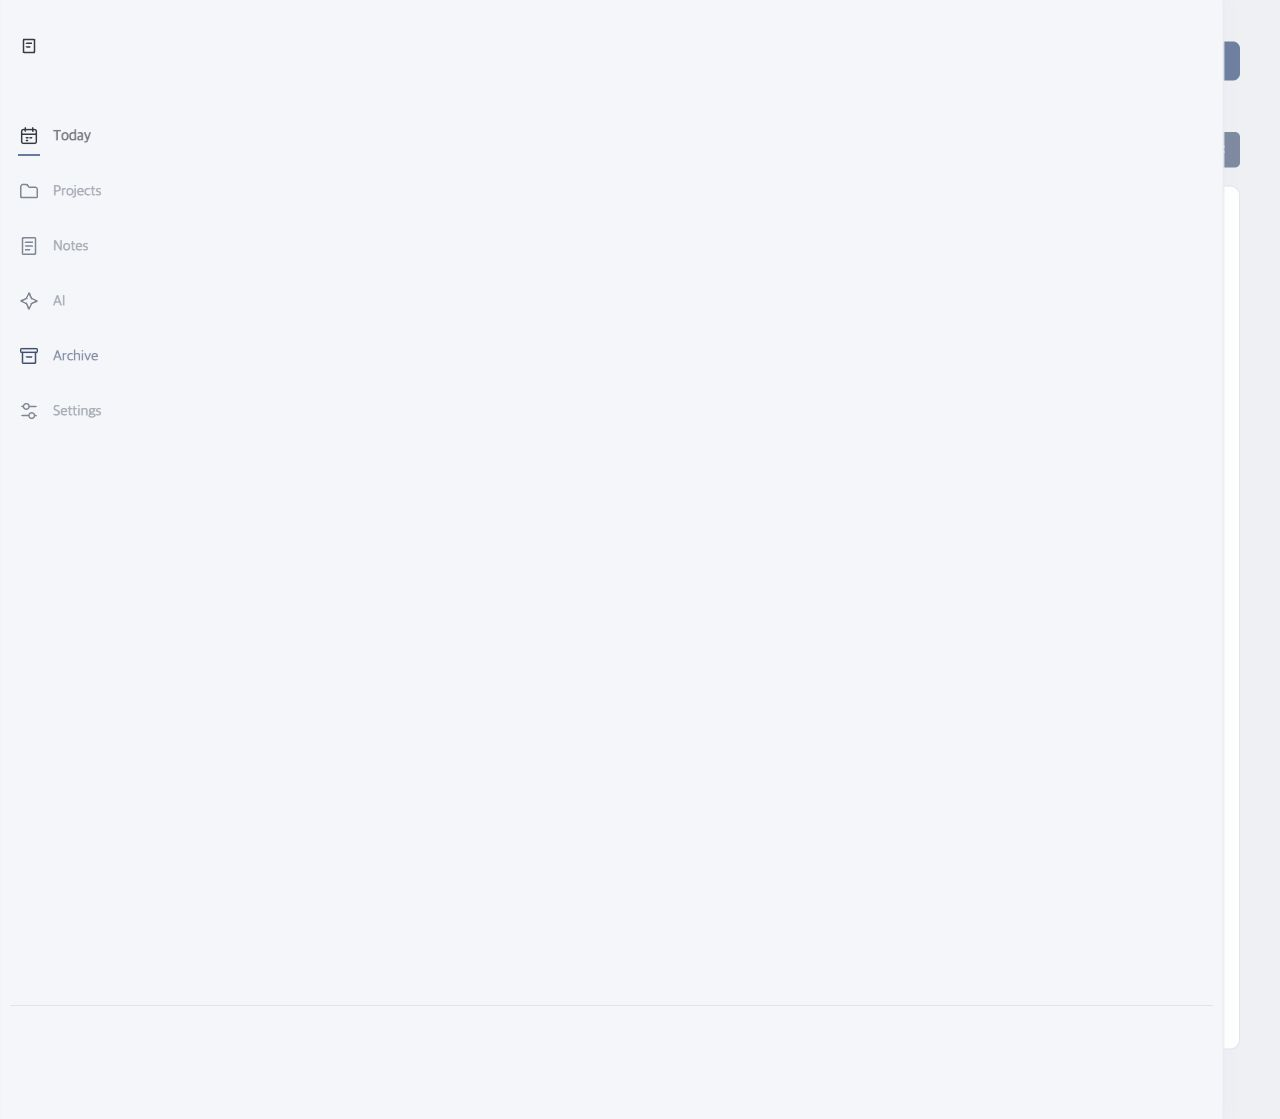
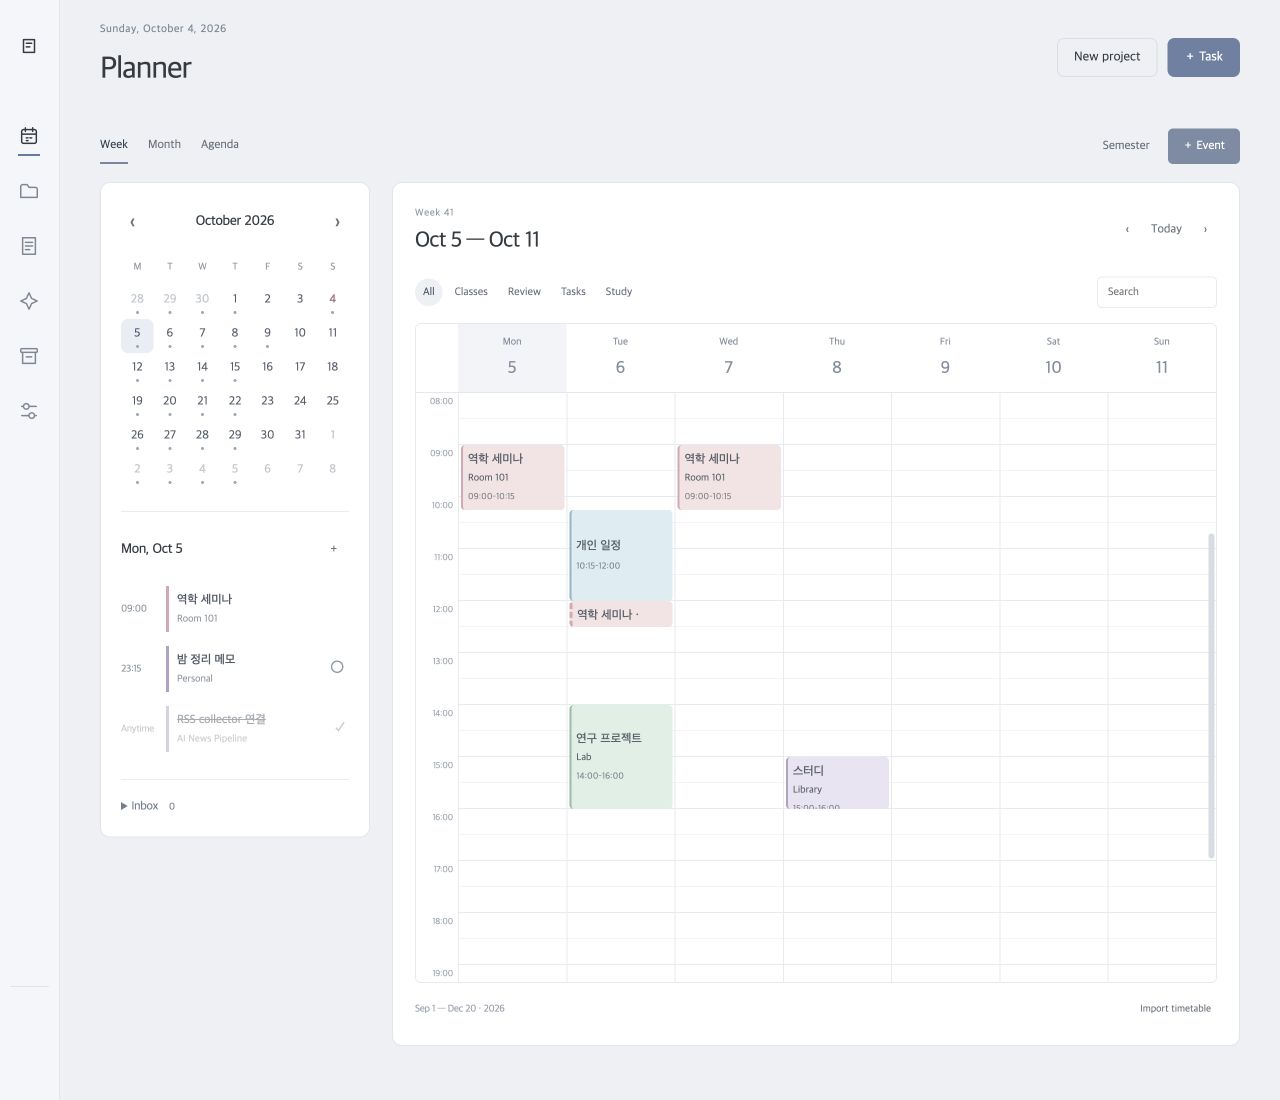
Refine timetable block alignment and update verified desktop evidence

diff --git a/css/semester.css b/css/semester.css
@@ -9,3 +9,4 @@
 @media(max-width:800px){.semester-layout{display:flex;flex-direction:column;gap:16px}.semester-main{order:0;width:100%;padding:16px 12px}.calendar-sidebar{order:1;width:100%;padding:18px}.mini-month{display:none}.selected-day{border:0;padding:0;margin:0}.semester-toolbar{gap:8px;margin-bottom:14px}.cal-segments{gap:14px}.calendar-actions{gap:0}.calendar-actions .cal-button{font-size:11px;padding:7px}.calendar-heading{margin-bottom:18px}.calendar-heading h2{font-size:20px}.calendar-paging .cal-button{padding:6px}.calendar-filter{gap:6px;flex-wrap:wrap}.calendar-kinds{gap:0}.calendar-kinds .cal-button{font-size:10px;padding:5px 7px}.calendar-filter input{max-width:100%;width:100%;font-size:12px}.semester-time-scroll{max-height:60dvh}.semester-time-grid{grid-template-columns:37px repeat(7,minmax(78px,1fr))}.full-month .month-date{min-height:76px;padding:6px 2px}.full-month .month-date>span{font-size:11px;margin:0 3px 5px}.month-events small{font-size:8px;padding:2px;line-height:1.3}.month-events{gap:2px}.month-weekdays span{font-size:9px}.calendar-foot{gap:5px}.calendar-foot>span{font-size:9px}.calendar-foot .cal-button{font-size:10px}.calendar-day-row{padding:9px 0}.calendar-row-time{width:43px;flex-basis:43px}.calendar-item strong{font-size:13px}.calendar-modal{padding:24px 20px;max-height:85dvh}.calendar-toast{bottom:calc(82px + env(safe-area-inset-bottom));max-width:calc(100% - 30px)}.semester-class-edit{flex-direction:column;gap:4px}}
 
 body.is-planner .topbar{display:none}body.is-planner .planner-shell{padding-top:24px}.selected-day{scroll-margin-top:18px}.calendar-modal .form-actions{flex-wrap:wrap}.semester-workspace [hidden]{display:none!important}
+.semester-block{display:flex;flex-direction:column;align-items:flex-start;justify-content:flex-start}.semester-block.kind-event{background:#edf0f5;border-left:2px solid #b7c2d0}.semester-block strong{flex-shrink:0}.semester-block small{white-space:nowrap}

diff --git a/docs/verification.md b/docs/verification.md
@@ -76,3 +76,4 @@ Python 30개 및 JavaScript 10개 테스트 통과. 주간 날짜 경계, 시간
 - 수업 메모 저장 후 Notes에서 같은 내용을 확인했습니다. 23:15–23:45 작업 저장과 새로고침 후 유지, 반복 일정 중지·복구를 확인했습니다.
 - 1280px/390px에서 페이지 가로 넘침 없음. 데스크톱 좌우 흰색 패널 상단 위치가 같습니다. 모바일은 월간 보기를 기본으로 엽니다.
 - 증빙: [주간](screenshots/semester-desktop.png), [모바일 월간](screenshots/semester-mobile.png), [복습 제안](screenshots/semester-review.png). 이 세 이미지는 개인 실제 시간표가 아닌 검증용 데이터로 촬영했습니다.
+- 운영 배포에서도 시간표 가져오기와 복습 생성, 새로고침 후 유지까지 확인했습니다. 개인 실제 일정은 브라우저 저장소에만 등록했습니다.
